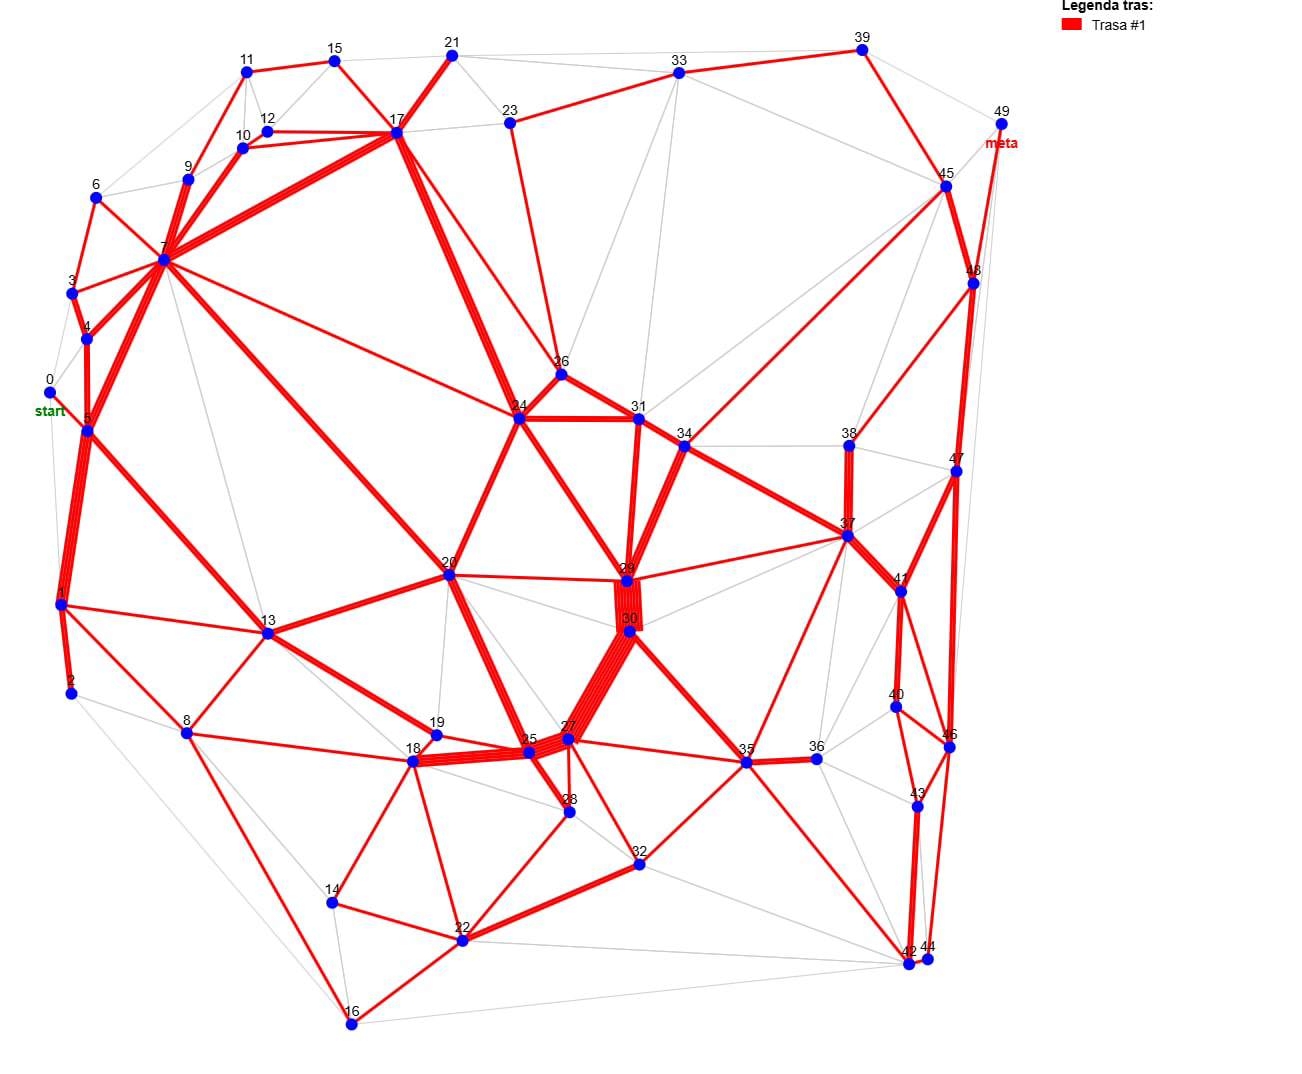
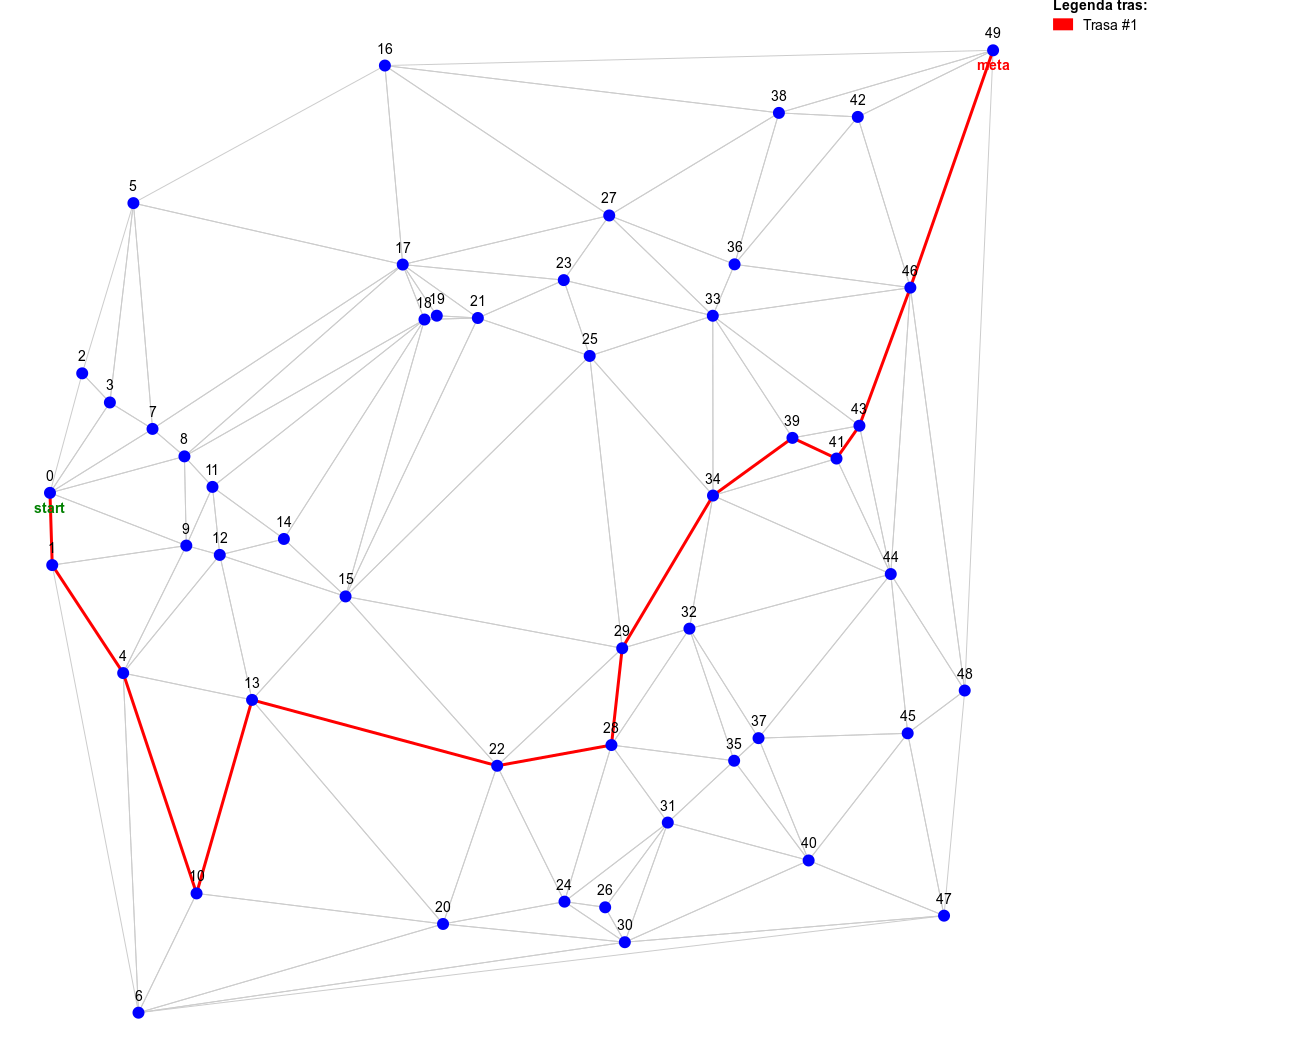
Docs update

diff --git a/latex-docs/main.tex b/latex-docs/main.tex
@@ -95,9 +95,9 @@ Projekt składa się z trzech głównych komponentów:
 
 \subsection*{Opis komponentów}
 
-\paragraph{Algorytm: \texttt{clark\_wright\_alg.cpp}}
+\paragraph{Algorytm}
 
-Plik zawiera implementację heurystycznego podejścia Clarke’a-Wrighta:
+Poniższe pliki zawierają implementację heurystycznego podejścia Clarke’a-Wrighta:
 \begin{itemize}
     \item \texttt{clarke\_wright\_separate\_depots()} -- podstawowy algorytm łączący trasy klientów w oparciu o listę oszczędności,
     \item \texttt{generate\_routes\_with\_variants()} -- rozszerzenie algorytmu o możliwość tworzenia wielu wariantów przez losowe permutacje listy oszczędności,
@@ -243,165 +243,114 @@ W celu przetestowania poprawności działania i jakości generowanych tras, prze
 \subsection*{Wygenerowane trasy}
 
 \begin{enumerate}
-    \item \textbf{Trasa \#1:}
-    \begin{quote}
-        0 → 4 → 5 → 13 → 20 → 30 → 27 → 28 → 22 → 16 → 8 → 1 → 0 → 3 → 0 → 1 → 8 → 14 → 18 → 19 → 25 → 27 → 35 → 36 → 40 → 46 → 40 → 36 → 35 → 27 → 25 → 18 → 8 → 18 → 25 → 27 → 35 → 36 → 35 → 27 → 32 → 42 → 44 → 43 → 40 → 41 → 37 → 38 → 34 → 31 → 33 → 23 → 17 → 10 → 9 → 7 → 13 → 18 → 28 → 32 → 27 → 20 → 7 → 10 → 17 → 26 → 31 → 34 → 37 → 41 → 47 → 48 → 47 → 41 → 40 → 36 → 35 → 27 → 25 → 20 → 24 → 17 → 21 → 23 → 26 → 31 → 34 → 37 → 34 → 31 → 26 → 17 → 12 → 17 → 23 → 17 → 7 → 5 → 7 → 24 → 31 → 33 → 39 → 45 → 38 → 37 → 35 → 42 → 22 → 14 → 8 → 2 → 8 → 13 → 20 → 29 → 24 → 17 → 15 → 11 → 15 → 17 → 26 → 24 → 20 → 25 → 28 → 25 → 20 → 24 → 17 → 15 → 12 → 10 → 9 → 6 → 9 → 10 → 17 → 23 → 33 → 45 → 49
-    \end{quote}
-    \textbf{Długość:} 870{,}212
+    \item \textbf{Trasa \#1:}\\
+    0 → 2 → 5 → 16 → 17 → 18 → 19 → 21 → 23 → 27 → 38 → 42 → 49\\
+    \textbf{Długość:} 60{,}10
 
-    \item \textbf{Trasa \#2:}
-    \begin{quote}
-        0 → 5 → 13 → 5 → 4 → 3 → 7 → 10 → 12 → 10 → 7 → 13 → 8 → 13 → 7 → 9 → 11 → 9 → 7 → 20 → 7 → 4 → 7 → 24 → 26 → 23 → 21 → 23 → 26 → 31 → 34 → 29 → 30 → 27 → 25 → 18 → 14 → 22 → 18 → 13 → 7 → 6 → 9 → 7 → 17 → 23 → 26 → 24 → 20 → 19 → 18 → 14 → 16 → 22 → 32 → 35 → 36 → 40 → 43 → 42 → 35 → 30 → 29 → 24 → 26 → 33 → 31 → 29 → 30 → 29 → 24 → 17 → 10 → 17 → 26 → 31 → 34 → 38 → 34 → 31 → 26 → 17 → 23 → 33 → 45 → 48 → 45 → 39 → 45 → 38 → 37 → 35 → 32 → 35 → 36 → 40 → 46 → 41 → 37 → 34 → 31 → 26 → 17 → 15 → 17 → 24 → 20 → 19 → 18 → 28 → 32 → 42 → 44 → 43 → 40 → 41 → 37 → 36 → 35 → 27 → 35 → 36 → 43 → 36 → 35 → 32 → 28 → 18 → 13 → 1 → 5 → 13 → 19 → 18 → 8 → 2 → 8 → 18 → 25 → 27 → 30 → 29 → 37 → 41 → 47 → 49
-    \end{quote}
-    \textbf{Długość:} 881{,}030
+    \item \textbf{Trasa \#2:}\\
+    0 → 9 → 12 → 15 → 25 → 33 → 46 → 49\\
+    \textbf{Długość:} 49{,}47
 
-    \item \textbf{Trasa \#3:}
-    \begin{quote}
-        0 → 3 → 4 → 5 → 13 → 18 → 28 → 32 → 42 → 44 → 42 → 35 → 30 → 29 → 31 → 33 → 31 → 34 → 31 → 24 → 31 → 34 → 37 → 35 → 32 → 22 → 18 → 13 → 7 → 10 → 7 → 20 → 25 → 28 → 25 → 20 → 7 → 6 → 3 → 4 → 5 → 7 → 9 → 7 → 24 → 29 → 30 → 27 → 30 → 29 → 31 → 29 → 30 → 27 → 32 → 28 → 18 → 8 → 2 → 1 → 5 → 4 → 7 → 13 → 8 → 14 → 22 → 32 → 35 → 36 → 40 → 46 → 41 → 40 → 43 → 42 → 43 → 36 → 35 → 30 → 37 → 38 → 48 → 45 → 33 → 23 → 21 → 15 → 11 → 15 → 21 → 17 → 7 → 13 → 18 → 19 → 20 → 24 → 26 → 33 → 39 → 33 → 23 → 17 → 24 → 29 → 30 → 35 → 27 → 25 → 18 → 8 → 1 → 5 → 7 → 10 → 12 → 15 → 17 → 26 → 31 → 34 → 38 → 47 → 38 → 37 → 41 → 40 → 36 → 35 → 30 → 20 → 19 → 18 → 14 → 16 → 8 → 13 → 7 → 10 → 12 → 17 → 23 → 33 → 39 → 49
-    \end{quote}
-    \textbf{Długość:} 884{,}242
-    \item \textbf{Trasa \#4:}
-    \begin{quote}
-        0 → 4 → 7 → 24 → 31 → 34 → 38 → 37 → 30 → 20 → 13 → 1 → 8 → 16 → 22 → 28 → 27 → 30 → 29 → 30 → 27 → 25 → 18 → 19 → 20 → 30 → 31 → 29 → 33 → 39 → 49
-    \end{quote}
-    \textbf{Długość:} 892{,}675
+    \item \textbf{Trasa \#3:}\\
+    0 → 2 → 3 → 7 → 8 → 11 → 14 → 15 → 22 → 28 → 29 → 32 → 44 → 45 → 48 → 49\\
+    \textbf{Długość:} 82{,}51
 
-    \item \textbf{Trasa \#5:}
-    \begin{quote}
-        0 → 4 → 7 → 9 → 7 → 13 → 1 → 5 → 7 → 17 → 21 → 33 → 45 → 48 → 47 → 41 → 40 → 36 → 35 → 30 → 29 → 24 → 31 → 34 → 38 → 39 → 45 → 49
-    \end{quote}
-    \textbf{Długość:} 893{,}664
+    \item \textbf{Trasa \#4:}\\
+    0 → 9 → 12 → 14 → 15 → 22 → 28 → 29 → 32 → 34 → 39 → 41 → 43 → 44 → 45 → 48 → 49\\
+    \textbf{Długość:} 87{,}55
 
-    \item \textbf{Trasa \#6:}
-    \begin{quote}
-        0 → 5 → 13 → 20 → 29 → 37 → 38 → 34 → 31 → 26 → 17 → 21 → 24 → 20 → 25 → 27 → 35 → 36 → 40 → 41 → 47 → 48 → 47 → 41 → 37 → 39 → 45 → 49
-    \end{quote}
-    \textbf{Długość:} 896{,}040
+    \item \textbf{Trasa \#5:}\\
+    0 → 7 → 8 → 11 → 14 → 15 → 22 → 28 → 29 → 32 → 34 → 39 → 41 → 43 → 46 → 49\\
+    \textbf{Długość:} 64{,}36
 
-    \item \textbf{Trasa \#7:}
-    \begin{quote}
-        0 → 5 → 7 → 17 → 21 → 33 → 45 → 48 → 47 → 41 → 40 → 36 → 35 → 30 → 29 → 24 → 31 → 34 → 38 → 39 → 45 → 49
-    \end{quote}
-    \textbf{Długość:} 907{,}972
+    \item \textbf{Trasa \#6:}\\
+    0 → 9 → 12 → 14 → 15 → 22 → 29 → 32 → 34 → 39 → 41 → 43 → 46 → 49\\
+    \textbf{Długość:} 60{,}85
 
-    \item \textbf{Trasa \#8:}
-    \begin{quote}
-        0 → 1 → 8 → 1 → 0 → 3 → 4 → 5 → 13 → 18 → 28 → 32 → 35 → 36 → 40 → 43 → 42 → 44 → 42 → 35 → 30 → 27 → 25 → 18 → 8 → 13 → 1 → 5 → 7 → 9 → 6 → 9 → 10 → 12 → 15 → 17 → 26 → 31 → 34 → 38 → 39 → 45 → 49
-    \end{quote}
-    \textbf{Długość:} 913{,}152
+    \item \textbf{Trasa \#7:}\\
+    0 → 7 → 17 → 27 → 36 → 46 → 49\\
+    \textbf{Długość:} 47{,}84
 
-    \item \textbf{Trasa \#9:}
-    \begin{quote}
-        0 → 3 → 7 → 20 → 25 → 27 → 30 → 29 → 30 → 35 → 36 → 40 → 46 → 41 → 40 → 43 → 36 → 35 → 32 → 28 → 18 → 14 → 22 → 32 → 35 → 36 → 43 → 42 → 35 → 37 → 38 → 34 → 31 → 26 → 17 → 23 → 33 → 45 → 49
-    \end{quote}
-    \textbf{Długość:} 914{,}775
+    \item \textbf{Trasa \#8:}\\
+    0 → 9 → 12 → 14 → 15 → 22 → 28 → 29 → 32 → 35 → 37 → 45 → 48 → 49\\
+    \textbf{Długość:} 75{,}07
 
-    \item \textbf{Trasa \#10:}
-    \begin{quote}
-        0 → 4 → 7 → 9 → 6 → 3 → 0 → 1 → 8 → 14 → 22 → 28 → 32 → 35 → 36 → 40 → 46 → 41 → 40 → 43 → 42 → 44 → 43 → 36 → 35 → 37 → 38 → 48 → 47 → 41 → 37 → 34 → 31 → 26 → 17 → 23 → 33 → 39 → 45 → 49
-    \end{quote}
-    \textbf{Długość:} 916{,}340
+    \item \textbf{Trasa \#9:}\\
+    0 → 7 → 8 → 11 → 18 → 19 → 21 → 25 → 33 → 36 → 38 → 42 → 49\\
+    \textbf{Długość:} 48{,}80
 
-    \item \textbf{Trasa \#11:}
-    \begin{quote}
-        0 → 4 → 7 → 17 → 23 → 21 → 15 → 11 → 15 → 21 → 24 → 20 → 19 → 18 → 8 → 2 → 8 → 16 → 22 → 32 → 35 → 36 → 40 → 43 → 42 → 44 → 42 → 43 → 36 → 35 → 37 → 38 → 48 → 45 → 33 → 39 → 45 → 49
-    \end{quote}
-    \textbf{Długość:} 919{,}157
+    \item \textbf{Trasa \#10:}\\
+    0 → 7 → 8 → 11 → 14 → 15 → 29 → 32 → 44 → 45 → 48 → 49\\
+    \textbf{Długość:} 72{,}40
 
-    \item \textbf{Trasa \#12:}
-    \begin{quote}
-        0 → 3 → 7 → 17 → 23 → 26 → 31 → 34 → 37 → 41 → 40 → 36 → 35 → 30 → 29 → 24 → 20 → 25 → 27 → 30 → 35 → 36 → 43 → 42 → 44 → 43 → 40 → 46 → 40 → 43 → 36 → 35 → 37 → 38 → 39 → 45 → 49
-    \end{quote}
-    \textbf{Długość:} 920{,}574
+    \item \textbf{Trasa \#11:}\\
+    0 → 1 → 4 → 10 → 13 → 22 → 28 → 35 → 37 → 44 → 45 → 48 → 49\\
+    \textbf{Długość:} 89{,}82
 
-    \item \textbf{Trasa \#13:}
-    \begin{quote}
-        0 → 3 → 7 → 24 → 29 → 30 → 35 → 36 → 40 → 46 → 41 → 47 → 48 → 47 → 41 → 37 → 35 → 36 → 40 → 43 → 42 → 44 → 43 → 36 → 35 → 30 → 29 → 24 → 31 → 34 → 38 → 39 → 45 → 49
-    \end{quote}
-    \textbf{Długość:} 921{,}638
+    \item \textbf{Trasa \#12:}\\
+    0 → 1 → 4 → 9 → 12 → 13 → 22 → 28 → 35 → 37 → 45 → 48 → 49\\
+    \textbf{Długość:} 76{,}63
 
-    \item \textbf{Trasa \#14:}
-    \begin{quote}
-        0 → 5 → 7 → 9 → 11 → 15 → 17 → 26 → 31 → 34 → 37 → 38 → 48 → 45 → 33 → 23 → 21 → 15 → 11 → 15 → 21 → 23 → 17 → 24 → 31 → 33 → 39 → 45 → 49
-    \end{quote}
-    \textbf{Długość:} 933{,}386
+    \item \textbf{Trasa \#13:}\\
+    0 → 1 → 4 → 10 → 13 → 22 → 28 → 29 → 34 → 39 → 41 → 43 → 46 → 49\\
+    \textbf{Długość:} 74{,}64
 
-    \item \textbf{Trasa \#15:}
-    \begin{quote}
-        0 → 1 → 8 → 16 → 22 → 28 → 32 → 35 → 36 → 40 → 46 → 41 → 40 → 43 → 42 → 44 → 42 → 43 → 36 → 35 → 37 → 38 → 48 → 45 → 33 → 39 → 45 → 49
-    \end{quote}
-    \textbf{Długość:} 936{,}347
+    \item \textbf{Trasa \#14:}\\
+    0 → 9 → 12 → 14 → 15 → 22 → 28 → 31 → 35 → 37 → 44 → 45 → 48 → 49\\
+    \textbf{Długość:} 79{,}12
 
-    \item \textbf{Trasa \#16:}
-    \begin{quote}
-        0 → 4 → 7 → 13 → 1 → 8 → 14 → 22 → 28 → 32 → 35 → 36 → 40 → 46 → 41 → 47 → 48 → 47 → 41 → 40 → 36 → 35 → 37 → 38 → 34 → 31 → 26 → 17 → 23 → 33 → 39 → 45 → 49
-    \end{quote}
-    \textbf{Długość:} 938{,}103
+    \item \textbf{Trasa \#15:}\\
+    0 → 1 → 9 → 12 → 14 → 15 → 25 → 33 → 36 → 46 → 49\\
+    \textbf{Długość:} 54{,}00
 
-    \item \textbf{Trasa \#17:}
-    \begin{quote}
-        0 → 3 → 7 → 9 → 6 → 9 → 10 → 12 → 15 → 21 → 23 → 26 → 31 → 34 → 38 → 39 → 45 → 49
-    \end{quote}
-    \textbf{Długość:} 941{,}512
+    \item \textbf{Trasa \#16:}\\
+    0 → 1 → 4 → 13 → 15 → 22 → 28 → 29 → 32 → 35 → 37 → 45 → 48 → 49\\
+    \textbf{Długość:} 80{,}72
 
-    \item \textbf{Trasa \#18:}
-    \begin{quote}
-        0 → 5 → 7 → 10 → 12 → 17 → 26 → 24 → 20 → 19 → 18 → 8 → 2 → 8 → 14 → 22 → 16 → 8 → 13 → 20 → 30 → 27 → 25 → 28 → 32 → 35 → 36 → 40 → 43 → 42 → 44 → 42 → 35 → 37 → 38 → 48 → 45 → 49
-    \end{quote}
-    \textbf{Długość:} 946{,}328
+    \item \textbf{Trasa \#17:}\\
+    0 → 1 → 9 → 12 → 14 → 15 → 22 → 29 → 32 → 44 → 45 → 48 → 49\\
+    \textbf{Długość:} 77{,}73
 
-    \item \textbf{Trasa \#19:}
-    \begin{quote}
-        0 → 3 → 7 → 13 → 18 → 28 → 25 → 27 → 30 → 29 → 24 → 20 → 19 → 18 → 8 → 1 → 5 → 4 → 3 → 6 → 9 → 7 → 10 → 12 → 15 → 17 → 26 → 31 → 34 → 38 → 48 → 45 → 49
-    \end{quote}
-    \textbf{Długość:} 949{,}192
+    \item \textbf{Trasa \#18:}\\
+    0 → 1 → 9 → 12 → 14 → 15 → 25 → 34 → 39 → 41 → 43 → 44 → 46 → 49\\
+    \textbf{Długość:} 71{,}97
 
-    \item \textbf{Trasa \#20:}
-    \begin{quote}
-        0 → 3 → 4 → 5 → 7 → 9 → 6 → 9 → 7 → 20 → 13 → 8 → 2 → 1 → 5 → 7 → 13 → 18 → 25 → 27 → 30 → 29 → 37 → 38 → 48 → 45 → 49
-    \end{quote}
-    \textbf{Długość:} 954{,}483
+    \item \textbf{Trasa \#19:}\\
+    0 → 1 → 4 → 10 → 13 → 15 → 21 → 23 → 25 → 34 → 39 → 41 → 43 → 44 → 45 → 48 → 49\\
+    \textbf{Długość:} 106{,}19
 
+    \item \textbf{Trasa \#20:}\\
+    0 → 1 → 9 → 12 → 14 → 15 → 21 → 23 → 27 → 38 → 42 → 49\\
+    \textbf{Długość:} 52{,}10
 \end{enumerate}
+
 
 \subsection*{Najlepsze trasy}
 
 \begin{enumerate}
-    \item \textbf{Trasa \#1:}
-    \begin{quote}
-        0 → 4 → 5 → 13 → 20 → 30 → 27 → 28 → 22 → 16 → 8 → 1 → 0 → 3 → 0 → 1 → 8 → 14 → 18 → 19 → 25 → 27 → 35 → 36 → 40 → 46 → 40 → 36 → 35 → 27 → 25 → 18 → 8 → 18 → 25 → 27 → 35 → 36 → 35 → 27 → 32 → 42 → 44 → 43 → 40 → 41 → 37 → 38 → 34 → 31 → 33 → 23 → 17 → 10 → 9 → 7 → 13 → 18 → 28 → 32 → 27 → 20 → 7 → 10 → 17 → 26 → 31 → 34 → 37 → 41 → 47 → 48 → 47 → 41 → 40 → 36 → 35 → 27 → 25 → 20 → 24 → 17 → 21 → 23 → 26 → 31 → 34 → 37 → 34 → 31 → 26 → 17 → 12 → 17 → 23 → 17 → 7 → 5 → 7 → 24 → 31 → 33 → 39 → 45 → 38 → 37 → 35 → 42 → 22 → 14 → 8 → 2 → 8 → 13 → 20 → 29 → 24 → 17 → 15 → 11 → 15 → 17 → 26 → 24 → 20 → 25 → 28 → 25 → 20 → 24 → 17 → 15 → 12 → 10 → 9 → 6 → 9 → 10 → 17 → 23 → 33 → 45 → 49
-    \end{quote}
-    \textbf{Długość:} 870{,}212
+    \item \textbf{Trasa \#1:}\\
+    0 → 2 → 5 → 16 → 17 → 18 → 19 → 21 → 23 → 27 → 38 → 42 → 49\\
+    \textbf{Długość:} 60{,}10
 
-    \item \textbf{Trasa \#2:}
-    \begin{quote}
-        0 → 5 → 13 → 5 → 4 → 3 → 7 → 10 → 12 → 10 → 7 → 13 → 8 → 13 → 7 → 9 → 11 → 9 → 7 → 20 → 7 → 4 → 7 → 24 → 26 → 23 → 21 → 23 → 26 → 31 → 34 → 29 → 30 → 27 → 25 → 18 → 14 → 22 → 18 → 13 → 7 → 6 → 9 → 7 → 17 → 23 → 26 → 24 → 20 → 19 → 18 → 14 → 16 → 22 → 32 → 35 → 36 → 40 → 43 → 42 → 35 → 30 → 29 → 24 → 26 → 33 → 31 → 29 → 30 → 29 → 24 → 17 → 10 → 17 → 26 → 31 → 34 → 38 → 34 → 31 → 26 → 17 → 23 → 33 → 45 → 48 → 45 → 39 → 45 → 38 → 37 → 35 → 32 → 35 → 36 → 40 → 46 → 41 → 37 → 34 → 31 → 26 → 17 → 15 → 17 → 24 → 20 → 19 → 18 → 28 → 32 → 42 → 44 → 43 → 40 → 41 → 37 → 36 → 35 → 27 → 35 → 36 → 43 → 36 → 35 → 32 → 28 → 18 → 13 → 1 → 5 → 13 → 19 → 18 → 8 → 2 → 8 → 18 → 25 → 27 → 30 → 29 → 37 → 41 → 47 → 49
-    \end{quote}
-    \textbf{Długość:} 881{,}030
+    \item \textbf{Trasa \#2:}\\
+    0 → 9 → 12 → 15 → 25 → 33 → 46 → 49\\
+    \textbf{Długość:} 49{,}47
 
-    \item \textbf{Trasa \#3:}
-    \begin{quote}
-        0 → 3 → 4 → 5 → 13 → 18 → 28 → 32 → 42 → 44 → 42 → 35 → 30 → 29 → 31 → 33 → 31 → 34 → 31 → 24 → 31 → 34 → 37 → 35 → 32 → 22 → 18 → 13 → 7 → 10 → 7 → 20 → 25 → 28 → 25 → 20 → 7 → 6 → 3 → 4 → 5 → 7 → 9 → 7 → 24 → 29 → 30 → 27 → 30 → 29 → 31 → 29 → 30 → 27 → 32 → 28 → 18 → 8 → 2 → 1 → 5 → 4 → 7 → 13 → 8 → 14 → 22 → 32 → 35 → 36 → 40 → 46 → 41 → 40 → 43 → 42 → 43 → 36 → 35 → 30 → 37 → 38 → 48 → 45 → 33 → 23 → 21 → 15 → 11 → 15 → 21 → 17 → 7 → 13 → 18 → 19 → 20 → 24 → 26 → 33 → 39 → 33 → 23 → 17 → 24 → 29 → 30 → 35 → 27 → 25 → 18 → 8 → 1 → 5 → 7 → 10 → 12 → 15 → 17 → 26 → 31 → 34 → 38 → 47 → 38 → 37 → 41 → 40 → 36 → 35 → 30 → 20 → 19 → 18 → 14 → 16 → 8 → 13 → 7 → 10 → 12 → 17 → 23 → 33 → 39 → 49
-    \end{quote}
-    \textbf{Długość:} 884{,}242
+    \item \textbf{Trasa \#3:}\\
+    0 → 7 → 17 → 27 → 36 → 46 → 49\\
+    \textbf{Długość:} 47{,}84
 
-    \item \textbf{Trasa \#4:}
-    \begin{quote}
-        0 → 4 → 7 → 24 → 31 → 34 → 38 → 37 → 30 → 20 → 13 → 1 → 8 → 16 → 22 → 28 → 27 → 30 → 29 → 30 → 27 → 25 → 18 → 19 → 20 → 30 → 31 → 29 → 33 → 39 → 49
-    \end{quote}
-    \textbf{Długość:} 892{,}675
+    \item \textbf{Trasa \#4:}\\
+    0 → 7 → 8 → 11 → 18 → 19 → 21 → 25 → 33 → 36 → 38 → 42 → 49\\
+    \textbf{Długość:} 48{,}80
 
-    \item \textbf{Trasa \#5:}
-    \begin{quote}
-        0 → 4 → 7 → 9 → 7 → 13 → 1 → 5 → 7 → 17 → 21 → 33 → 45 → 48 → 47 → 41 → 40 → 36 → 35 → 30 → 29 → 24 → 31 → 34 → 38 → 39 → 45 → 49
-    \end{quote}
-    \textbf{Długość:} 893{,}664
+    \item \textbf{Trasa \#5:}\\
+    0 → 1 → 9 → 12 → 14 → 15 → 21 → 23 → 27 → 38 → 42 → 49\\
+    \textbf{Długość:} 52{,}10
 
-    \item \textbf{Trasa \#6:}
-    \begin{quote}
-        0 → 5 → 13 → 20 → 29 → 37 → 38 → 34 → 31 → 26 → 17 → 21 → 24 → 20 → 25 → 27 → 35 → 36 → 40 → 41 → 47 → 48 → 47 → 41 → 37 → 39 → 45 → 49
-    \end{quote}
-    \textbf{Długość:} 896{,}040
+    \item \textbf{Trasa \#6:}\\
+    0 → 1 → 9 → 12 → 14 → 15 → 25 → 33 → 36 → 46 → 49\\
+    \textbf{Długość:} 54{,}00
 \end{enumerate}
 
 \subsection*{Wizualizacja tras}
@@ -410,7 +359,7 @@ Dla każdej z wyznaczonych tras wygenerowano wizualizacje w formacie SVG. Kolory
 
 \begin{figure}[H]
     \centering
-    \includegraphics[width=1\linewidth]{277F47CA-3920-4B86-AFE1-1EB9FF95EBFC.png}
+    \includegraphics[width=1\linewidth]{model.png}
     \caption{Wizualizacja grafu}
     \label{fig:enter-label}
 \end{figure}
